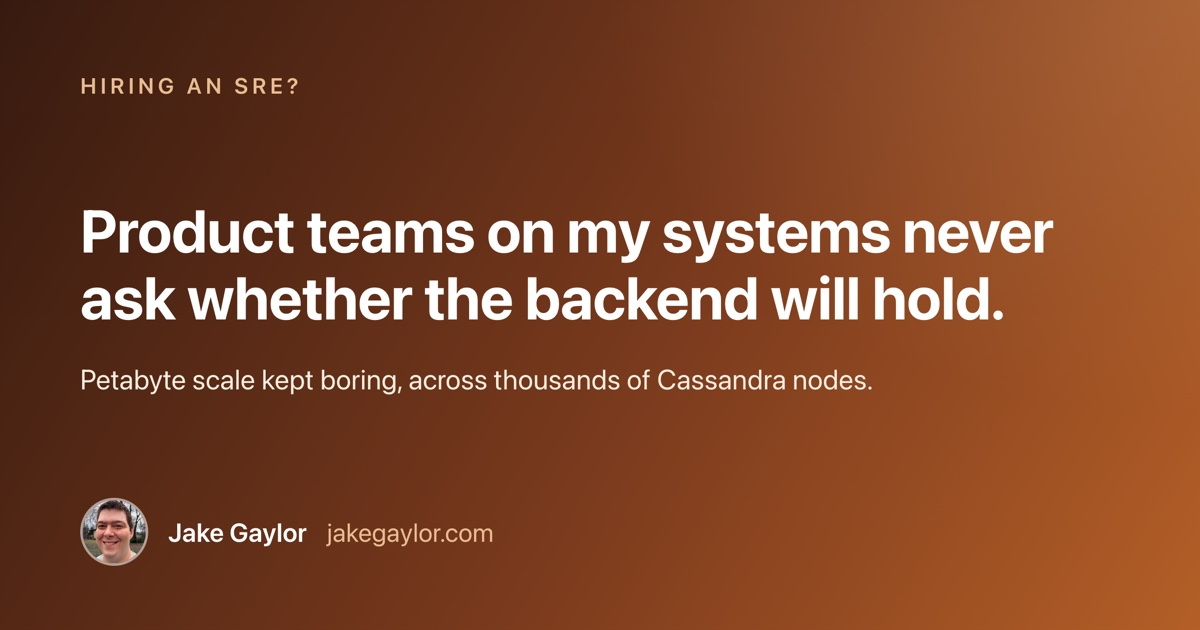
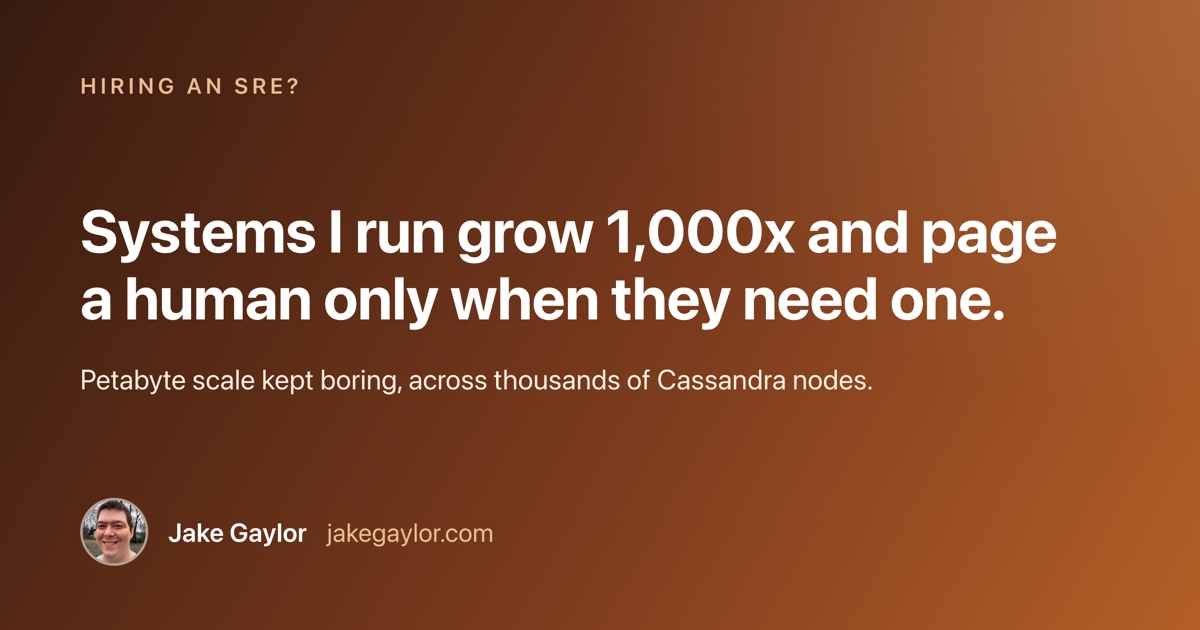
sre page: headline is systems I run grow 1,000x and page a human only when they need one

Changed region(s): [[0.0617, 0.3317, 0.8942, 0.5429]]

diff --git a/sre.html b/sre.html
@@ -2,10 +2,10 @@
 layout: layouts/home.html
 title: Jake Gaylor · Site Reliability Engineer
 description: Jake Gaylor ran SRE for Protectwise's petabyte-scale ingestion platform through dozens of production deploys a day, and was the one-person ops team behind Cloaked's platform through 1,000x growth under SOC 2 and ISO 27001. PCI incident response at Cardfree, and production served from his own house.
-socialDescription: Petabyte scale kept boring. Thousands of Cassandra nodes, dozens of deploys a day, and incident response that does not need heroes.
+socialDescription: Systems I run grow 1,000x and page a human only when they need one. Petabyte scale, dozens of deploys a day, and incident response that does not need heroes.
 canonicalPath: /sre/
-og_image: /images/og/role-sre.jpg
-og_image_alt: Hiring an SRE? Product teams on my systems never ask whether the backend will hold.
+og_image: /images/og/role-sre.jpg?v=2
+og_image_alt: Hiring an SRE? Systems I run grow 1,000x and page a human only when they need one.
 ---
 
 {% assign ctaPrefix = "sre" %}
@@ -19,11 +19,11 @@ og_image_alt: Hiring an SRE? Product teams on my systems never ask whether the b
         Site Reliability Engineer &middot; Senior / Staff
       </p>
       <h1 class="text-4xl md:text-5xl font-bold mb-6 leading-tight">
-        Product teams on my systems never ask whether the backend will hold.
+        Systems I run grow 1,000x and page a human only when they need one.
       </h1>
       <p class="text-xl text-brand-100 mb-10">
-        Scale stays survivable when it stays boring. I build capacity ahead of growth, observability everyone
-        reads, and incident response that works without heroes.
+        Scale stays survivable when it stays boring. I build observability everyone reads and incident
+        response that works without heroes.
       </p>
       {% include "partials/hero-ctas.html" %}
     </div>
